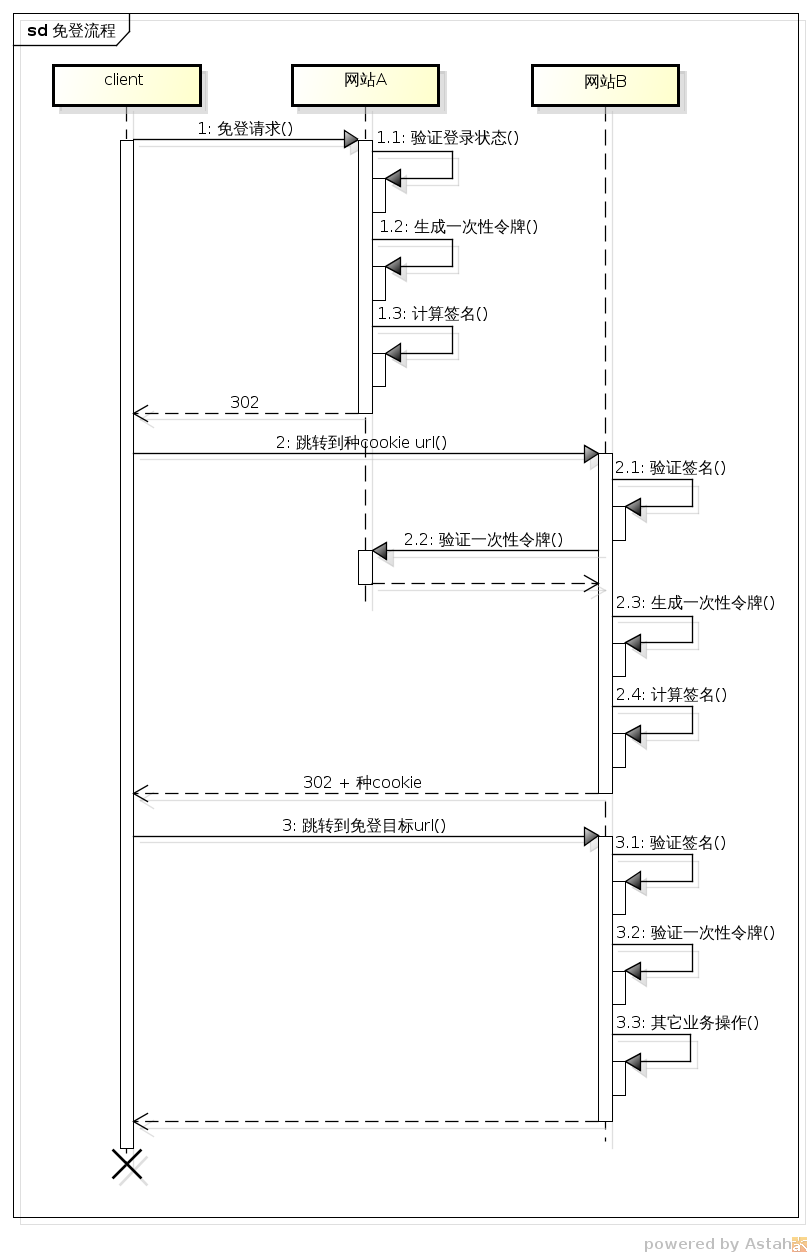
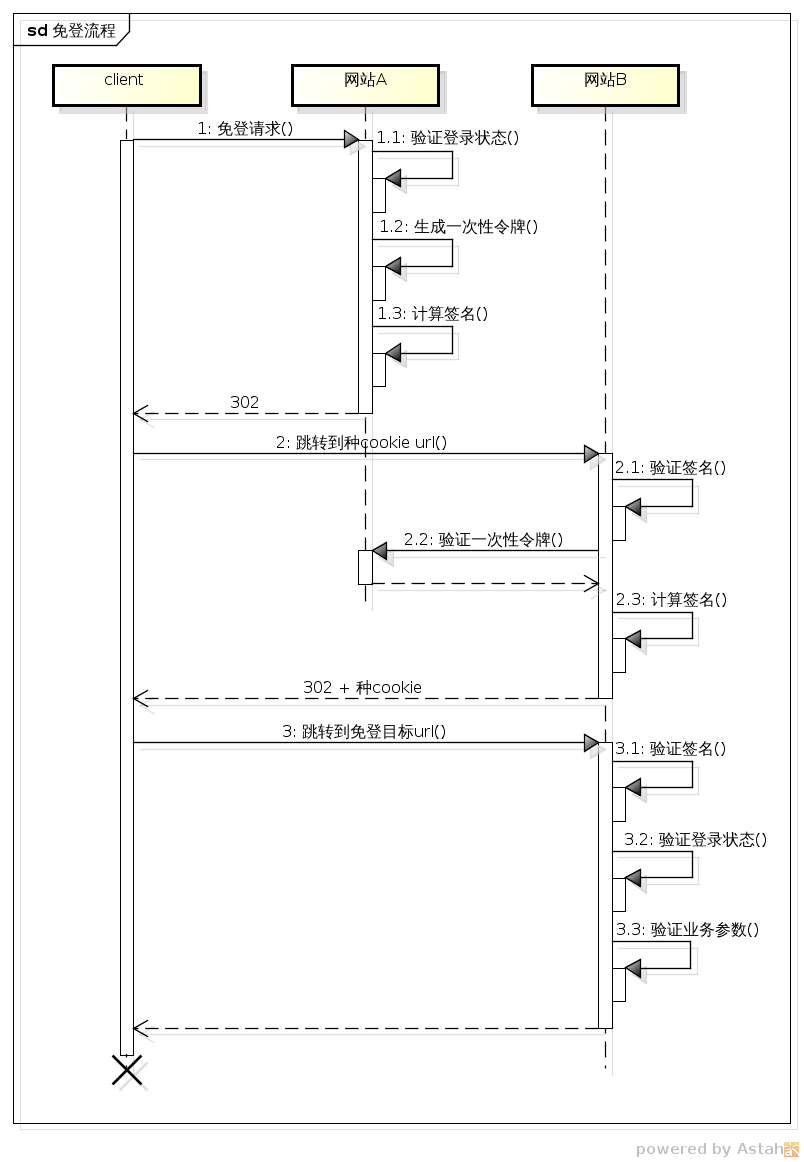
Site updated at 2014-03-28 02:28:06 UTC

Changed region(s): [[0.0, 0.0, 0.9639, 0.9604], [0.7774, 0.9604, 0.995, 1.0], [0.9639, 0.0, 0.995, 0.031]]

diff --git a/blog/safe-sso-solution/index.html b/blog/safe-sso-solution/index.html
@@ -140,7 +140,7 @@ MathJax.Hub.Config({
 <ol>
 <li>免登目标地址的合法性</li>
 <li>在任何一次跳转的过程中防止参数被篡改</li>
-<li>任何一次跳转链接都要具有短效性和一次性</li>
+<li>任何一次跳转链接都要具有短效性和一次性(除了最后一次跳往目标地址的跳转)</li>
 <li>免登目标所接受的参数的合法性(如果有的话)</li>
 </ol>
 
@@ -150,10 +150,10 @@ MathJax.Hub.Config({
 一般来讲，免登的目标地址应该是一个“无副作用”，无任何额外操作的类似于“主页”的地方，这样能杜绝上述情况发生</p>
 
 <p>第二个问题，“在任何一次跳转的过程中防止参数被篡改”，这显然是必要的；从http跳转这种行为本身来讲，每一次跳转，服务器端都失去一次对该请求行为的控制，客户端想要更改跳转请求的任何属性都轻而易举<br/>
-可以采用&#8221;数字签名&#8221;技术防止这种篡改；需要考虑的是，哪些数据需要被签名？这取决于该免登需求“在意”哪些数据被更改，一般来讲，都会对参数 + url进行签名，当然其它数据，如cookie也可以被包含在内<br/>
+可以采用&#8221;数字签名&#8221;技术防止这种篡改；需要考虑的是，哪些数据需要被签名？这取决于该免登需求“在意”哪些数据被更改，一般来讲，都会对请求参数进行签名，当然其它数据，如path也可以被包含在内，如果path带有业务信息的话<br/>
 由网站A负责加签，等请求经由客户端，在转发到网站B时，网站B会对请求进行验签; 这需要网站A和网站B事先约定好加签验签的密钥，一般来讲，对称的密钥串已经足够安全，只要密钥不被泄漏</p>
 
-<p>第三个问题，“任何一次跳转链接都要具有短效性和一次性”，这也是显而易见的，否则客户端或搜索引擎只要将某个跳转中间阶段的url给搜录下来，那么就随时可以免登了；有不少实力雄厚的大网站都出过这样的问题<br/>
+<p>第三个问题，“任何一次跳转链接都要具有短效性和一次性”，这也是显而易见的，否则客户端或搜索引擎只要将某个跳转中间阶段的url给收录下来，那么就随时可以免登了；有不少实力雄厚的大网站都出过这样的问题<br/>
 这个问题可以通过“一次性令牌”方案简单解决，也就是说，跳转之前生成一个唯一的、一次性的、短期时效性的一个“令牌”，跳转到目标网站后在验证、作废该令牌<br/>
 至于是网站A还是网站B负责生成这个令牌，其实无所谓，只要保证令牌的生成过程是私密的就行了：</p>
 
@@ -163,9 +163,10 @@ MathJax.Hub.Config({
 </ul>
 
 
-<p>上述两种策略都可以，但看起来似乎由跳转发起方来做令牌的生成和提供验证接口比较好，这样省去远程调用令牌生成接口的麻烦</p>
+<p>上述两种策略都可以，但看起来显然由跳转发起方来做令牌的生成和提供验证接口比较好，这样省去远程调用令牌生成接口的麻烦<br/>
+注意，最后一次跳转，也就是跳转到最终目标页面的那次跳转，由于有登录验证，因此不需要一次性令牌验证了，但仍然需要签名验证(如果带有业务参数的话)</p>
 
-<p>最后一个问题，“免登目标所接受的参数的合法性”；一般来讲，免登目标url是不建议带有参数的，但如果一定要带，那么是必需要网站B验证这些参数的合法性，以免恶意用户从一开始就传送一些非法参数过来</p>
+<p>最后一个问题，“免登目标所接受的参数的合法性”；一般来讲，免登目标url是不建议带有参数的，但如果一定要带，那么是必需要网站B验证这些参数的业务合法性，以免恶意用户从一开始就传送一些非法参数过来</p>
 
 <p>解决好了上述4个问题，也就是几次跳转，写好cookie，最终跳到目标页面上的事情了。</p>
 
